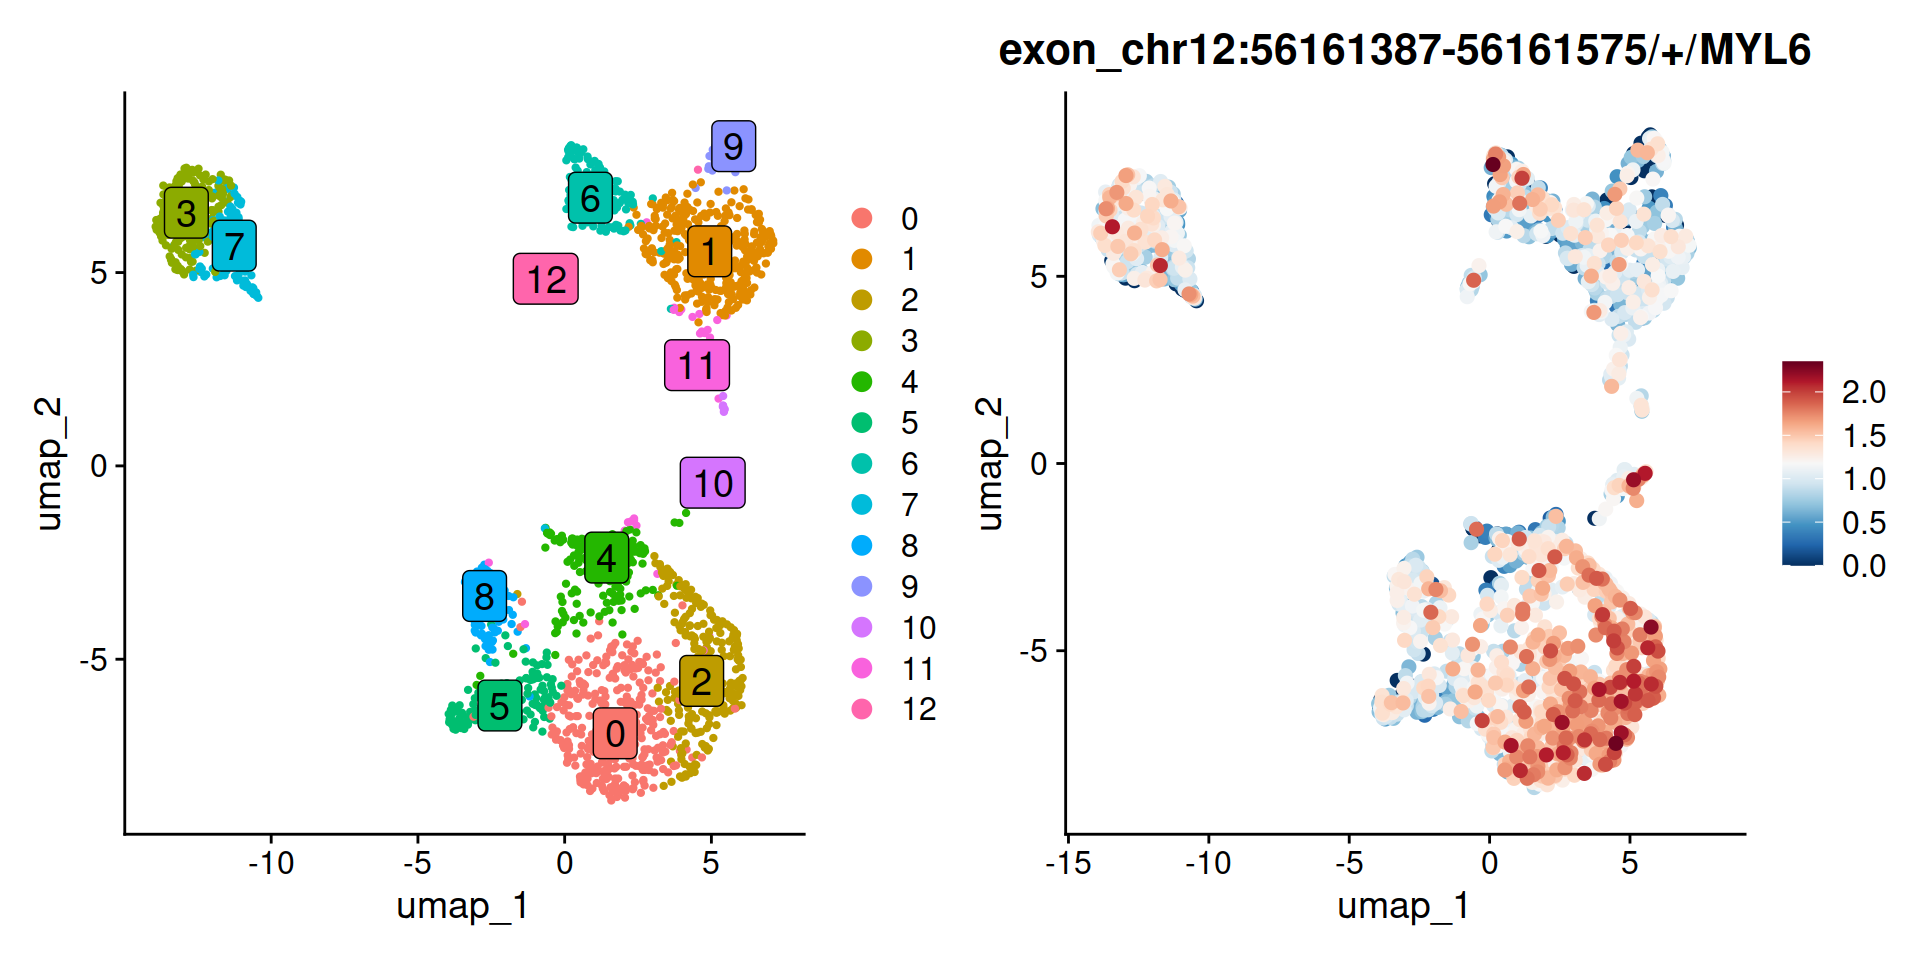
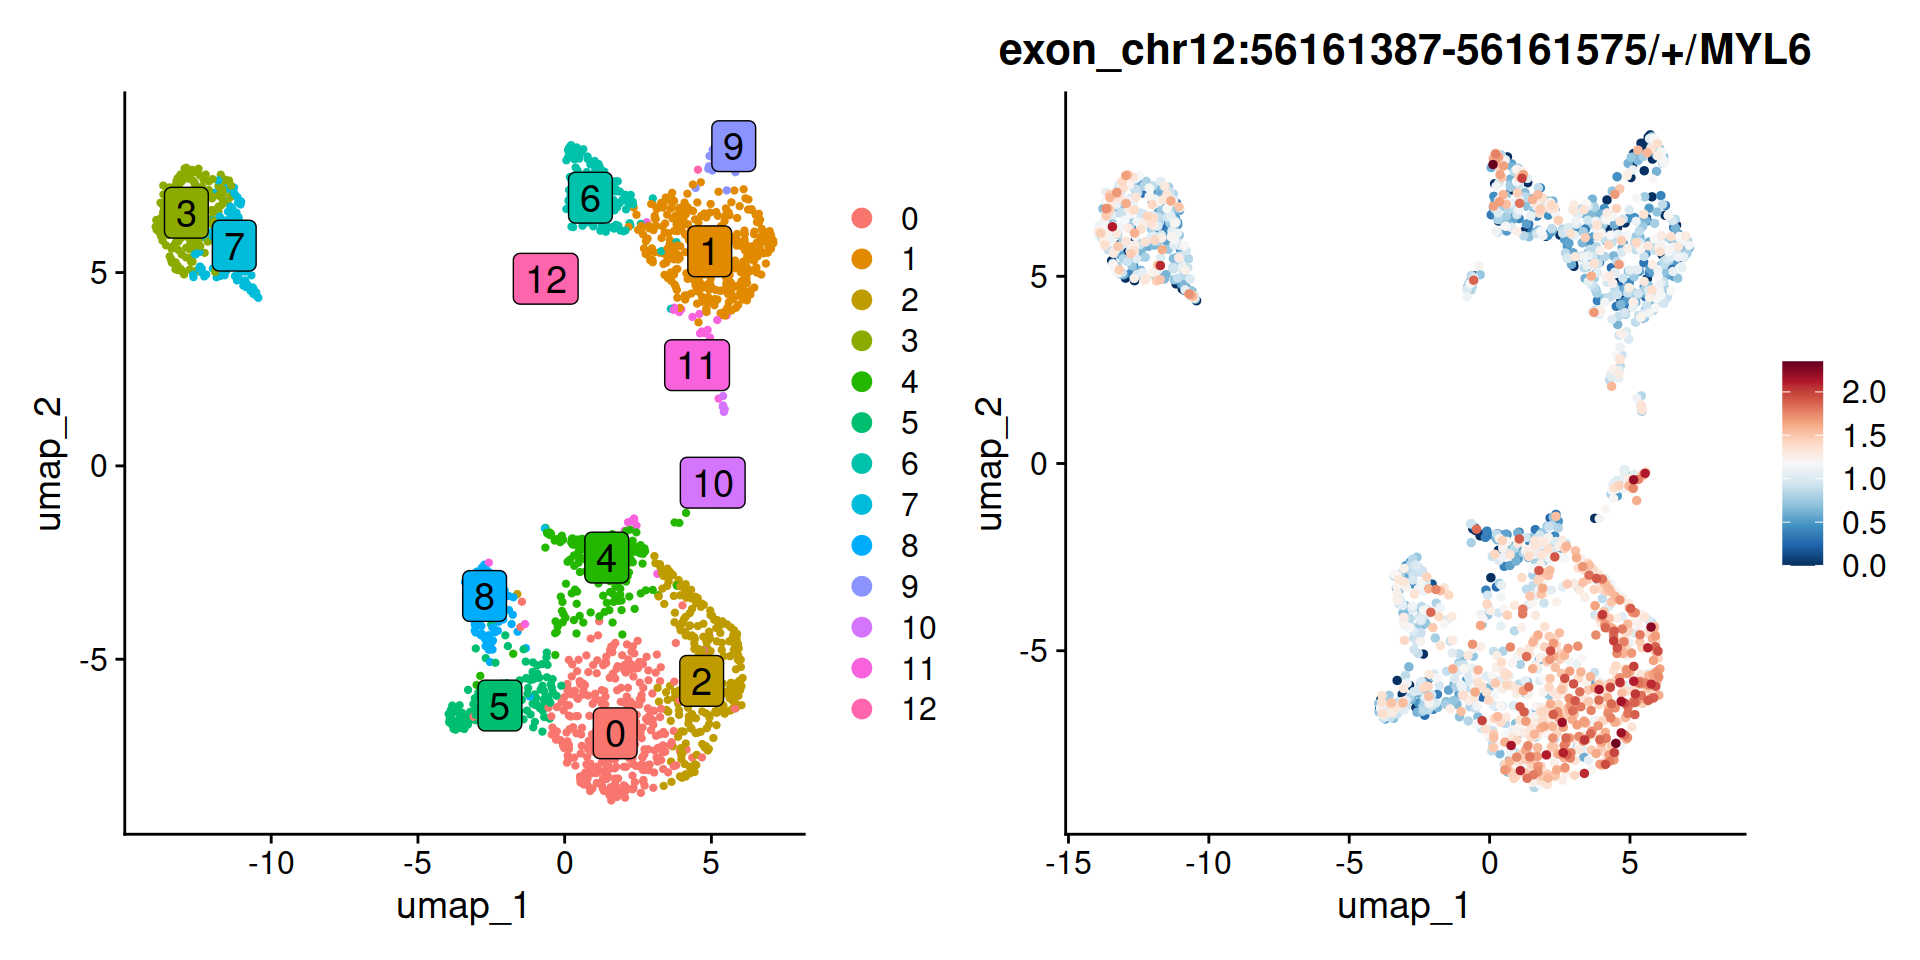
modified:   Yano_AS.Rmd 	modified:   docs/Yano_AS.html 	modified:   docs/Yano_AS_files/figure-html/unnamed-chunk-10-1.png 	modified:   docs/Yano_AS_files/figure-html/unnamed-chunk-11-1.png 	modified:   docs/search.json

diff --git a/docs/Yano_AS.html b/docs/Yano_AS.html
@@ -6,7 +6,6 @@
 
 <meta name="viewport" content="width=device-width, initial-scale=1.0, user-scalable=yes">
 
-<meta name="dcterms.date" content="2024-07-08">
 
 <title>Alternative splicing analysis for single cell RNA sequencing</title>
 <style>
@@ -169,12 +168,6 @@ pre > code.sourceCode > span > a:first-child::before { text-decoration: underlin
 <div class="quarto-title-meta column-page-left">
 
     
-    <div>
-    <div class="quarto-title-meta-heading">Published</div>
-    <div class="quarto-title-meta-contents">
-      <p class="date">July 8, 2024</p>
-    </div>
-  </div>
   
     
   </div>
@@ -374,7 +367,7 @@ pre > code.sourceCode > span > a:first-child::before { text-decoration: underlin
 <pre><code>Run autocorrelation test for 117428 features.</code></pre>
 </div>
 <div class="cell-output cell-output-stderr">
-<pre><code>Runtime : 11.27183 secs</code></pre>
+<pre><code>Runtime : 12.48921 secs</code></pre>
 </div>
 <div class="sourceCode cell-code" id="cb20"><pre class="sourceCode r code-with-copy"><code class="sourceCode r"><span id="cb20-1"><a href="#cb20-1" aria-hidden="true" tabindex="-1"></a><span class="co"># Select autocorrleated features for downstream test.</span></span>
 <span id="cb20-2"><a href="#cb20-2" aria-hidden="true" tabindex="-1"></a>obj <span class="ot">&lt;-</span> <span class="fu">SetAutoCorrFeatures</span>(obj)</span></code><button title="Copy to Clipboard" class="code-copy-button"><i class="bi"></i></button></pre></div>
@@ -409,7 +402,7 @@ pre > code.sourceCode > span > a:first-child::before { text-decoration: underlin
 <pre><code>Use predefined weight matrix "WeightMatrix".</code></pre>
 </div>
 <div class="cell-output cell-output-stderr">
-<pre><code>Runtime : 1.766606 mins.</code></pre>
+<pre><code>Runtime : 1.646232 mins.</code></pre>
 </div>
 <div class="sourceCode cell-code" id="cb32"><pre class="sourceCode r code-with-copy"><code class="sourceCode r"><span id="cb32-1"><a href="#cb32-1" aria-hidden="true" tabindex="-1"></a><span class="co"># Now p values and adjusted p values have been generated</span></span>
 <span id="cb32-2"><a href="#cb32-2" aria-hidden="true" tabindex="-1"></a><span class="fu">head</span>(obj[[<span class="st">'exon'</span>]][[]]) <span class="sc">%&gt;%</span> knitr<span class="sc">::</span><span class="fu">kable</span>()</span></code><button title="Copy to Clipboard" class="code-copy-button"><i class="bi"></i></button></pre></div>
@@ -1216,9 +1209,9 @@ Adding another scale for colour, which will replace the existing scale.</code></
 <div class="cell">
 <div class="sourceCode cell-code" id="cb42"><pre class="sourceCode r code-with-copy"><code class="sourceCode r"><span id="cb42-1"><a href="#cb42-1" aria-hidden="true" tabindex="-1"></a>gtf <span class="ot">&lt;-</span> <span class="fu">gtf2db</span>(<span class="st">"./gencode.v44.annotation.gtf.gz"</span>)</span></code><button title="Copy to Clipboard" class="code-copy-button"><i class="bi"></i></button></pre></div>
 <div class="cell-output cell-output-stdout">
-<pre><code>[2024-10-06 18:08:06] [32mGTF loading..[0m
-[2024-10-06 18:08:44] [32mLoad 62700 genes.[0m
-[2024-10-06 18:08:44] [32mLoad time : 37.916 sec[0m</code></pre>
+<pre><code>[2024-10-10 13:40:27] [32mGTF loading..[0m
+[2024-10-10 13:41:05] [32mLoad 62700 genes.[0m
+[2024-10-10 13:41:05] [32mLoad time : 37.531 sec[0m</code></pre>
 </div>
 </div>
 <p>A track plot is used to study the read coverage per cell group. In the track plot shown below, the cell group is specified by the <code>cell.group</code> parameter. Unlike IGV, where read depth is used, we use UMI depth in this plot. The cell barcode tag and UMI tag are predefined as “CB” and “UB” with parameter <code>cell.tag</code> and <code>umi.tag</code>. For each cell group, the UMI depth has been normalized by the number of cells in that group. This means that the depth at each location can be interpreted as the mean UMI depth per cell for the group. As a result, the tracks are directly comparable across different cell groups. If <code>cell.group</code> is not set, the track plot will generate the raw UMI depth per location.</p>
@@ -1266,7 +1259,7 @@ Adding another scale for colour, which will replace the existing scale.</code></
 <pre><code>Run autocorrelation test for 15036 features.</code></pre>
 </div>
 <div class="cell-output cell-output-stderr">
-<pre><code>Runtime : 1.746906 secs</code></pre>
+<pre><code>Runtime : 1.738581 secs</code></pre>
 </div>
 <div class="sourceCode cell-code" id="cb51"><pre class="sourceCode r code-with-copy"><code class="sourceCode r"><span id="cb51-1"><a href="#cb51-1" aria-hidden="true" tabindex="-1"></a>obj <span class="ot">&lt;-</span> <span class="fu">SetAutoCorrFeatures</span>(obj)</span></code><button title="Copy to Clipboard" class="code-copy-button"><i class="bi"></i></button></pre></div>
 <div class="cell-output cell-output-stderr">
@@ -1304,7 +1297,7 @@ Adding another scale for colour, which will replace the existing scale.</code></
 <pre><code>Use predefined weight matrix "WeightMatrix".</code></pre>
 </div>
 <div class="cell-output cell-output-stderr">
-<pre><code>Runtime : 11.13983 secs.</code></pre>
+<pre><code>Runtime : 10.77702 secs.</code></pre>
 </div>
 <div class="sourceCode cell-code" id="cb65"><pre class="sourceCode r code-with-copy"><code class="sourceCode r"><span id="cb65-1"><a href="#cb65-1" aria-hidden="true" tabindex="-1"></a><span class="fu">FbtPlot</span>(obj, <span class="at">val=</span><span class="st">"gene_name.padj"</span>, <span class="at">remove.chr=</span><span class="cn">TRUE</span>, <span class="at">sel.chrs =</span> sel.chrs)</span></code><button title="Copy to Clipboard" class="code-copy-button"><i class="bi"></i></button></pre></div>
 <div class="cell-output-display">
@@ -1479,7 +1472,7 @@ Adding another scale for colour, which will replace the existing scale.</code></
 <p>In contrast, the overlapping exon chr12:56161387-56161575/+/MYL6 shows higher expression in group 2 compared to other groups. It’s important to note that if a read is fully contained within two or more overlapping exons, PISA will count it for all relevant exons. Check PISA’s manual for details.</p>
 <div class="cell">
 <div class="sourceCode cell-code" id="cb73"><pre class="sourceCode r code-with-copy"><code class="sourceCode r"><span id="cb73-1"><a href="#cb73-1" aria-hidden="true" tabindex="-1"></a>p1 <span class="ot">&lt;-</span> <span class="fu">DimPlot</span>(obj, <span class="at">label=</span><span class="cn">TRUE</span>, <span class="at">label.size =</span> <span class="dv">5</span>, <span class="at">label.box =</span> <span class="cn">TRUE</span>)</span>
-<span id="cb73-2"><a href="#cb73-2" aria-hidden="true" tabindex="-1"></a>p2 <span class="ot">&lt;-</span> <span class="fu">FeaturePlot</span>(obj, <span class="at">features =</span> <span class="fu">c</span>(<span class="st">"chr12:56161387-56161575/+/MYL6"</span>), <span class="at">order =</span> <span class="cn">TRUE</span>, <span class="at">pt.size =</span> <span class="dv">2</span>) <span class="sc">&amp;</span> <span class="fu">scale_colour_gradientn</span>(<span class="at">colours =</span> <span class="fu">rev</span>(<span class="fu">brewer.pal</span>(<span class="at">n =</span> <span class="dv">11</span>, <span class="at">name =</span> <span class="st">"RdBu"</span>)))</span></code><button title="Copy to Clipboard" class="code-copy-button"><i class="bi"></i></button></pre></div>
+<span id="cb73-2"><a href="#cb73-2" aria-hidden="true" tabindex="-1"></a>p2 <span class="ot">&lt;-</span> <span class="fu">FeaturePlot</span>(obj, <span class="at">features =</span> <span class="fu">c</span>(<span class="st">"chr12:56161387-56161575/+/MYL6"</span>), <span class="at">order =</span> <span class="cn">TRUE</span>, <span class="at">pt.size =</span> <span class="dv">1</span>) <span class="sc">&amp;</span> <span class="fu">scale_colour_gradientn</span>(<span class="at">colours =</span> <span class="fu">rev</span>(<span class="fu">brewer.pal</span>(<span class="at">n =</span> <span class="dv">11</span>, <span class="at">name =</span> <span class="st">"RdBu"</span>)))</span></code><button title="Copy to Clipboard" class="code-copy-button"><i class="bi"></i></button></pre></div>
 <div class="cell-output cell-output-stderr">
 <pre><code>Warning: Could not find chr12:56161387-56161575/+/MYL6 in the default search
 locations, found in 'exon' assay instead</code></pre>
@@ -1517,17 +1510,19 @@ Adding another scale for colour, which will replace the existing scale.</code></
 <span id="cb77-13"><a href="#cb77-13" aria-hidden="true" tabindex="-1"></a>dat2 <span class="ot">&lt;-</span> dat2[bind.genes,]</span>
 <span id="cb77-14"><a href="#cb77-14" aria-hidden="true" tabindex="-1"></a><span class="fu">rownames</span>(dat2) <span class="ot">&lt;-</span> exons</span>
 <span id="cb77-15"><a href="#cb77-15" aria-hidden="true" tabindex="-1"></a></span>
-<span id="cb77-16"><a href="#cb77-16" aria-hidden="true" tabindex="-1"></a><span class="fu">require</span>(ComplexHeatmap)</span>
-<span id="cb77-17"><a href="#cb77-17" aria-hidden="true" tabindex="-1"></a>d <span class="ot">&lt;-</span> <span class="fu">dist</span>(dat1)</span>
-<span id="cb77-18"><a href="#cb77-18" aria-hidden="true" tabindex="-1"></a>hc <span class="ot">&lt;-</span> <span class="fu">hclust</span>(d)</span>
-<span id="cb77-19"><a href="#cb77-19" aria-hidden="true" tabindex="-1"></a>idx <span class="ot">&lt;-</span> hc<span class="sc">$</span>labels[hc<span class="sc">$</span>order]</span>
-<span id="cb77-20"><a href="#cb77-20" aria-hidden="true" tabindex="-1"></a></span>
-<span id="cb77-21"><a href="#cb77-21" aria-hidden="true" tabindex="-1"></a>ha <span class="ot">&lt;-</span> <span class="fu">HeatmapAnnotation</span>(<span class="at">group=</span>idents, <span class="at">border =</span> <span class="cn">TRUE</span>)</span>
-<span id="cb77-22"><a href="#cb77-22" aria-hidden="true" tabindex="-1"></a>ht1 <span class="ot">&lt;-</span> <span class="fu">Heatmap</span>(dat1[idx, order.cells], <span class="at">cluster_rows =</span> <span class="cn">FALSE</span>, <span class="at">cluster_columns =</span> <span class="cn">FALSE</span>, <span class="at">show_column_names =</span> <span class="cn">FALSE</span>, <span class="at">border =</span> <span class="cn">TRUE</span>,  <span class="at">top_annotation =</span> ha, <span class="at">name =</span> <span class="st">"exon"</span>, <span class="at">column_title =</span> <span class="st">"exon"</span>)</span>
-<span id="cb77-23"><a href="#cb77-23" aria-hidden="true" tabindex="-1"></a>ht2 <span class="ot">&lt;-</span> <span class="fu">Heatmap</span>(dat2[idx, order.cells], <span class="at">cluster_rows =</span> <span class="cn">FALSE</span>, <span class="at">cluster_columns =</span> <span class="cn">FALSE</span>, <span class="at">show_column_names =</span> <span class="cn">FALSE</span>, <span class="at">border =</span> <span class="cn">TRUE</span>,  <span class="at">top_annotation =</span> ha, <span class="at">name =</span> <span class="st">"gene"</span>, <span class="at">column_title =</span> <span class="st">"gene"</span>, <span class="at">row_names_max_width =</span> <span class="fu">max_text_width</span>(<span class="fu">rownames</span>(dat2), <span class="at">gp =</span> <span class="fu">gpar</span>(<span class="at">fontsize =</span> <span class="dv">12</span>)))</span>
-<span id="cb77-24"><a href="#cb77-24" aria-hidden="true" tabindex="-1"></a></span>
-<span id="cb77-25"><a href="#cb77-25" aria-hidden="true" tabindex="-1"></a>ht <span class="ot">&lt;-</span> ht1 <span class="sc">+</span> ht2</span>
-<span id="cb77-26"><a href="#cb77-26" aria-hidden="true" tabindex="-1"></a><span class="fu">draw</span>(ht, <span class="at">heatmap_legend_side =</span> <span class="st">"left"</span>,  <span class="at">annotation_legend_side =</span> <span class="st">"left"</span>)</span></code><button title="Copy to Clipboard" class="code-copy-button"><i class="bi"></i></button></pre></div>
+<span id="cb77-16"><a href="#cb77-16" aria-hidden="true" tabindex="-1"></a>dat <span class="ot">&lt;-</span> <span class="fu">cbind</span>(dat1, dat2)</span>
+<span id="cb77-17"><a href="#cb77-17" aria-hidden="true" tabindex="-1"></a></span>
+<span id="cb77-18"><a href="#cb77-18" aria-hidden="true" tabindex="-1"></a><span class="fu">require</span>(ComplexHeatmap)</span>
+<span id="cb77-19"><a href="#cb77-19" aria-hidden="true" tabindex="-1"></a>d <span class="ot">&lt;-</span> <span class="fu">dist</span>(dat)</span>
+<span id="cb77-20"><a href="#cb77-20" aria-hidden="true" tabindex="-1"></a>hc <span class="ot">&lt;-</span> <span class="fu">hclust</span>(d)</span>
+<span id="cb77-21"><a href="#cb77-21" aria-hidden="true" tabindex="-1"></a>idx <span class="ot">&lt;-</span> hc<span class="sc">$</span>labels[hc<span class="sc">$</span>order]</span>
+<span id="cb77-22"><a href="#cb77-22" aria-hidden="true" tabindex="-1"></a></span>
+<span id="cb77-23"><a href="#cb77-23" aria-hidden="true" tabindex="-1"></a>ha <span class="ot">&lt;-</span> <span class="fu">HeatmapAnnotation</span>(<span class="at">group=</span>idents, <span class="at">border =</span> <span class="cn">TRUE</span>)</span>
+<span id="cb77-24"><a href="#cb77-24" aria-hidden="true" tabindex="-1"></a>ht1 <span class="ot">&lt;-</span> <span class="fu">Heatmap</span>(dat1[idx, order.cells], <span class="at">cluster_rows =</span> <span class="cn">FALSE</span>, <span class="at">cluster_columns =</span> <span class="cn">FALSE</span>, <span class="at">show_column_names =</span> <span class="cn">FALSE</span>, <span class="at">border =</span> <span class="cn">TRUE</span>,  <span class="at">top_annotation =</span> ha, <span class="at">name =</span> <span class="st">"exon"</span>, <span class="at">column_title =</span> <span class="st">"exon"</span>)</span>
+<span id="cb77-25"><a href="#cb77-25" aria-hidden="true" tabindex="-1"></a>ht2 <span class="ot">&lt;-</span> <span class="fu">Heatmap</span>(dat2[idx, order.cells], <span class="at">cluster_rows =</span> <span class="cn">FALSE</span>, <span class="at">cluster_columns =</span> <span class="cn">FALSE</span>, <span class="at">show_column_names =</span> <span class="cn">FALSE</span>, <span class="at">border =</span> <span class="cn">TRUE</span>,  <span class="at">top_annotation =</span> ha, <span class="at">name =</span> <span class="st">"gene"</span>, <span class="at">column_title =</span> <span class="st">"gene"</span>, <span class="at">row_names_max_width =</span> <span class="fu">max_text_width</span>(<span class="fu">rownames</span>(dat2), <span class="at">gp =</span> <span class="fu">gpar</span>(<span class="at">fontsize =</span> <span class="dv">12</span>)))</span>
+<span id="cb77-26"><a href="#cb77-26" aria-hidden="true" tabindex="-1"></a></span>
+<span id="cb77-27"><a href="#cb77-27" aria-hidden="true" tabindex="-1"></a>ht <span class="ot">&lt;-</span> ht1 <span class="sc">+</span> ht2</span>
+<span id="cb77-28"><a href="#cb77-28" aria-hidden="true" tabindex="-1"></a><span class="fu">draw</span>(ht, <span class="at">heatmap_legend_side =</span> <span class="st">"left"</span>,  <span class="at">annotation_legend_side =</span> <span class="st">"left"</span>)</span></code><button title="Copy to Clipboard" class="code-copy-button"><i class="bi"></i></button></pre></div>
 <div class="cell-output-display">
 <div>
 <figure class="figure">
